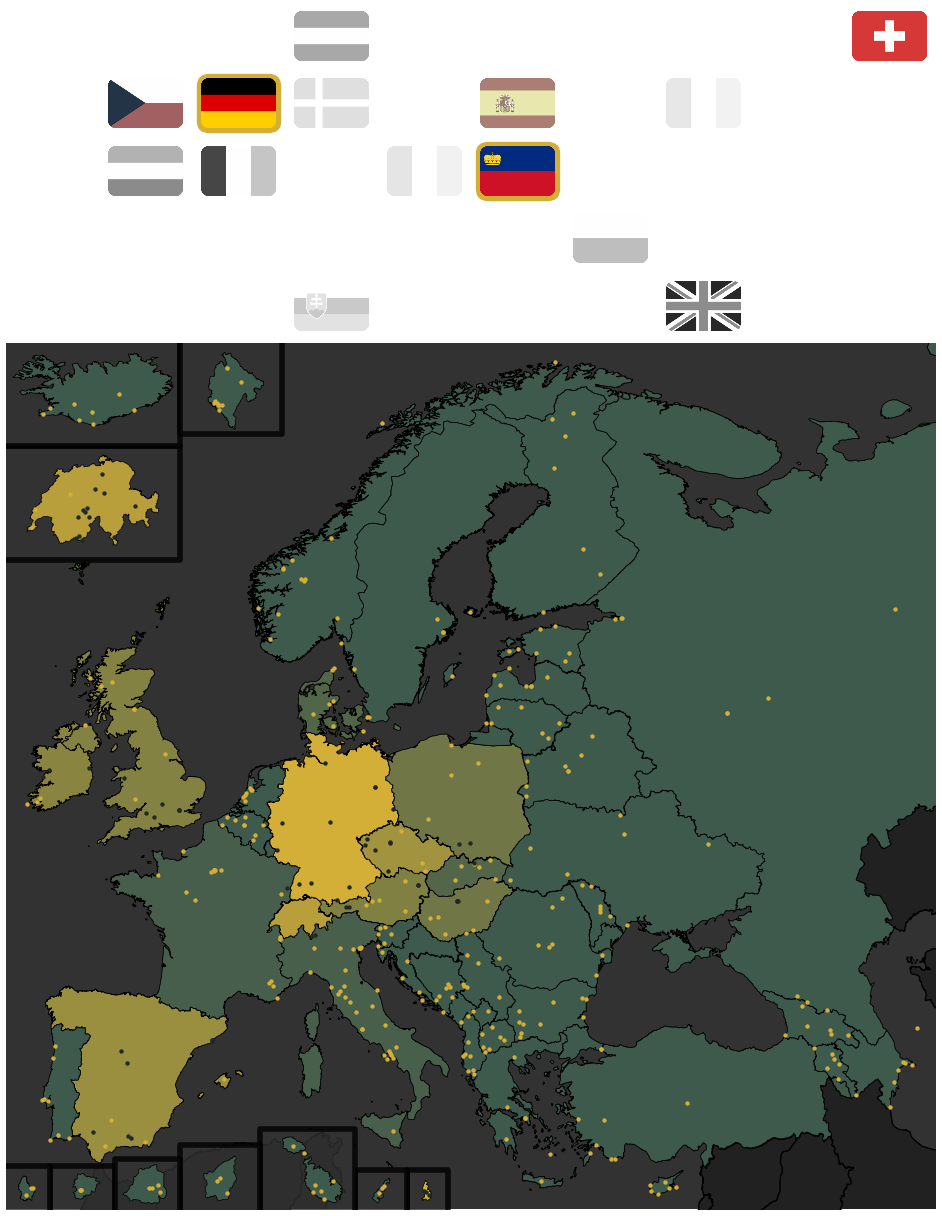
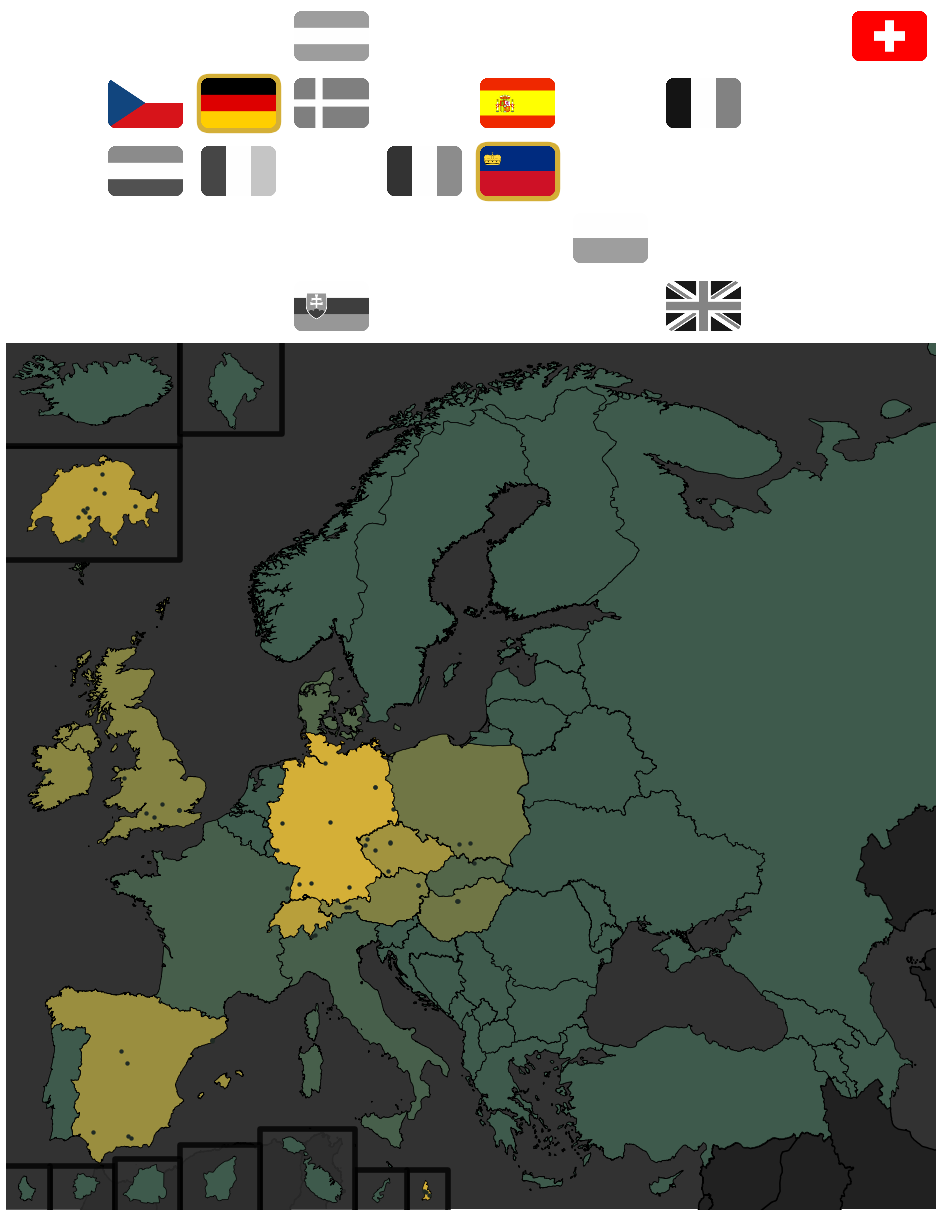
remove gradual fade in for maps

diff --git a/plotting/plotting_manager.py b/plotting/plotting_manager.py
@@ -187,10 +187,10 @@ class PlotManager:
             points["geometry"].plot(ax=ax, color="black", linewidth=0, markersize=self.marker_size, alpha=0)
 
         else:
-            # Unvisited
-            unvisited = (points['date'] > current_date) | (points['date'].isna())
-            if unvisited.any():
-                points[unvisited].plot(ax=ax, color=self.color_unvisited, linewidth=0, markersize=self.marker_size, alpha=1)
+            ## Unvisited
+            #unvisited = (points['date'] > current_date) | (points['date'].isna())
+            #if unvisited.any():
+            #    points[unvisited].plot(ax=ax, color=self.color_unvisited, linewidth=0, markersize=self.marker_size, alpha=1)
 
             # Visited
             visited = points['date'] < current_date
@@ -234,7 +234,8 @@ class PlotManager:
 
             # Create color image
             if ratio > 0.5:
-                beta = ratio*2 - 1
+                #beta = ratio*2 - 1
+                beta = 1
             else:
                 beta = 0
             img = mpimg.imread(f"./{self.path}/submaps/{file}")
@@ -244,10 +245,11 @@ class PlotManager:
             img[:,:,3] = img[:,:,3]*beta
 
             # Create grayscale image
-            if ratio > 0.5:
-                alpha = 1
+            if ratio == 0:
+                alpha = 0
             else:
-                alpha = ratio*2
+                #alpha = ratio*2
+                alpha = 1
             gray = np.dot(img[...,:3], [0.587, 0.299, 0.114])
             gray_rgb = np.stack((gray, gray, gray), axis=-1)
 

diff --git a/main.py b/main.py
@@ -14,8 +14,8 @@ from utils.file_utils import ensure_directory_exists
 PATH = "eu"
 
 small_map = True
-small_gif = True
-large_map = True
+small_gif = False
+large_map = False
 
 # Ensure output folders exist
 ensure_directory_exists("plots/temp")
